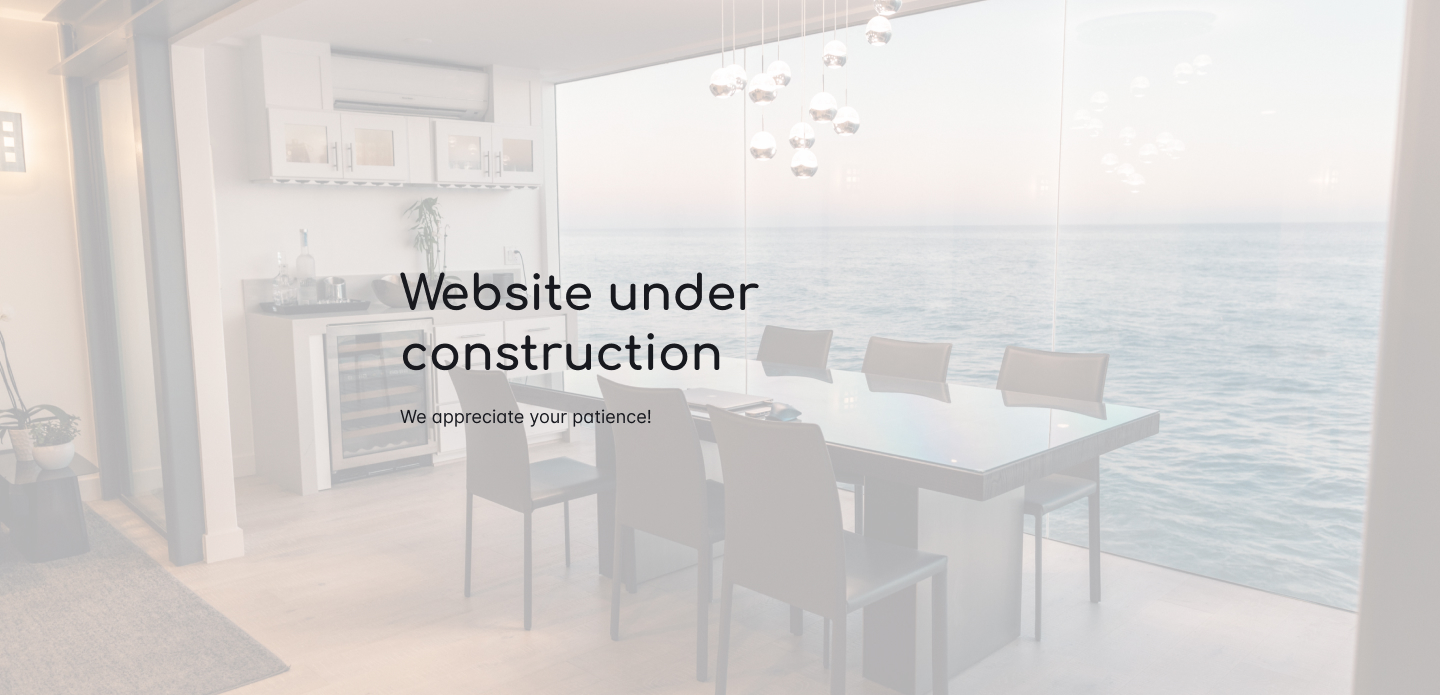
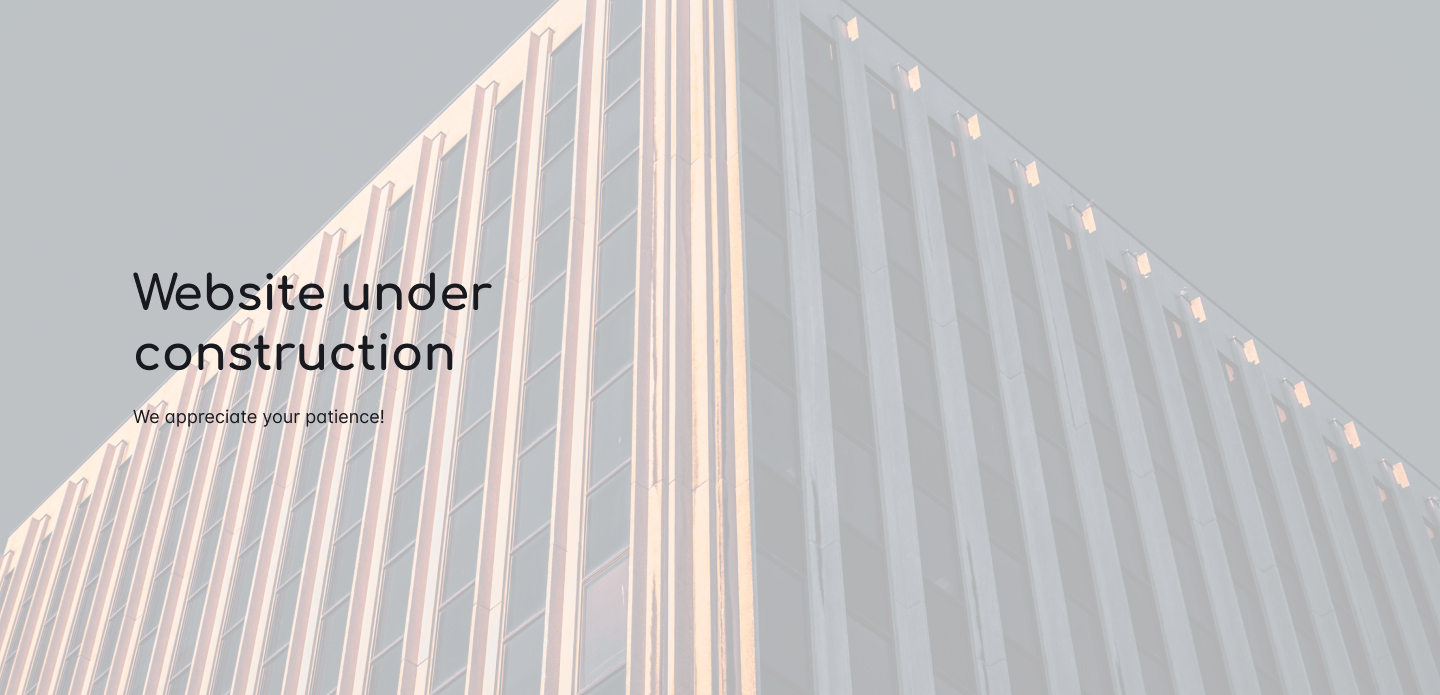
fixed image sizes

diff --git a/src/Footer.js b/src/Footer.js
@@ -1,0 +1,54 @@
+function Footer() {
+  return (
+    <>
+      <footer className="footer p-4 bg-living-header text-white flex">
+        <div className="flex">
+          <img
+            className="mx-2"
+            src="./imgs/logo-small.svg"
+            width="20"
+            height="20"
+            alt="logo"
+          />
+          <p>Living Solutions. Copyright © 2021 - All right reserved</p>
+        </div>
+        <div className="gap-4 flex justify-end ml-auto">
+          <a
+            href="https://www.youtube.com"
+            target="_blank"
+            className="cursor-pointer hover:text-living-red"
+            rel="noreferrer"
+          >
+            <svg
+              xmlns="http://www.w3.org/2000/svg"
+              width="24"
+              height="24"
+              viewBox="0 0 24 24"
+              className="fill-current"
+            >
+              <path d="M19.615 3.184c-3.604-.246-11.631-.245-15.23 0-3.897.266-4.356 2.62-4.385 8.816.029 6.185.484 8.549 4.385 8.816 3.6.245 11.626.246 15.23 0 3.897-.266 4.356-2.62 4.385-8.816-.029-6.185-.484-8.549-4.385-8.816zm-10.615 12.816v-8l8 3.993-8 4.007z"></path>
+            </svg>
+          </a>
+          <a
+            className="cursor-pointer hover:text-blue-500"
+            href="https://www.facebook.com/livingsolutionpk"
+            target="_blank"
+            rel="noreferrer"
+          >
+            <svg
+              xmlns="http://www.w3.org/2000/svg"
+              width="24"
+              height="24"
+              viewBox="0 0 24 24"
+              className="fill-current"
+            >
+              <path d="M9 8h-3v4h3v12h5v-12h3.642l.358-4h-4v-1.667c0-.955.192-1.333 1.115-1.333h2.885v-5h-3.808c-3.596 0-5.192 1.583-5.192 4.615v3.385z"></path>
+            </svg>
+          </a>
+        </div>
+      </footer>
+    </>
+  );
+}
+
+export default Footer;

diff --git a/src/Navbar.js b/src/Navbar.js
@@ -1,10 +1,10 @@
 function NavBar() {
   return (
     <>
-      <div className="max-w-full flex cursor-default bg-living-header sm:px-12">
+      <div className="flex cursor-default bg-living-header sm:px-12">
         <div className="">
           <img
-            className="flex-auto"
+            className="flex w-1/2 md:w-full "
             src="./imgs/logo.svg"
             width="200"
             height="200"

diff --git a/src/App.js b/src/App.js
@@ -1,12 +1,16 @@
 import "./App.css";
 import NavBar from "./Navbar";
 import Landing from "./Landing";
+import Footer from "./Footer";
 
 function App() {
   return (
     <div className="App">
       <NavBar />
-      <Landing />
+      <Landing imgpath="./imgs/interior.jpg" />
+      <Landing imgpath="./imgs/background.jpg" />
+      <Landing imgpath="./imgs/interior.jpg" />
+      <Footer />
     </div>
   );
 }

diff --git a/src/Landing.js b/src/Landing.js
@@ -1,7 +1,7 @@
-function Landing() {
+function Landing({ imgpath }) {
   return (
     <div className="relative">
-      <img className="w-full" src="./imgs/background.jpg" alt="background" />
+      <img className="w-full" src={imgpath} alt="background" />
     </div>
   );
 }
